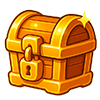
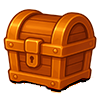
宝箱及背包迭代

diff --git a/js/page_game.js b/js/page_game.js
@@ -20,6 +20,8 @@ let __blockSize = 0;
 let __gridStartX = 0;
 let __gridStartY = 0;
 let popupGoldDisplayed = 0; // 用于胜利弹窗中金币滚动显示
+let chestGoldEarned        = 0; // 本关累计：宝箱金币
+let popupChestGoldDisplayed = 0; // 弹窗里滚动用的数字
 let displayedGold = 0; // 当前动画显示的金币
 let popupGoldStartTime = 0; // ⏱ 胜利弹窗金币滚动起始时间
 let playerActionCounter = 0;
@@ -579,21 +581,20 @@ if (dialog) {
       ctx.drawImage(globalThis.victoryHeroImage, heroImgX, heroImgY, heroImgW, heroImgH);
     }
   
-    /* 4. 金币奖励 */
-    const goldY = heroImgY + heroImgH + 24;
-    if (popupGoldDisplayed < earnedGold) {
-        const diff = earnedGold - popupGoldDisplayed;
-        popupGoldDisplayed += Math.ceil(diff * 0.1); // ✨ 更慢滚动（从 0.2 降为 0.1）
-      } else {
-        popupGoldDisplayed = earnedGold;
-      }
-      
-      const popupGoldText = `获得金币：+${popupGoldDisplayed}`;
-      ctx.fillStyle = '#FFD700';
-      ctx.font = 'bold 20px sans-serif';
-      ctx.textAlign = 'center';
-      ctx.textBaseline = 'alphabetic';
-      ctx.fillText(popupGoldText, W / 2, goldY);
+/* 4. 宝箱金币奖励（只统计宝箱） */
+const goldY = heroImgY + heroImgH + 24;
+if (popupChestGoldDisplayed < chestGoldEarned) {
+  const diff = chestGoldEarned - popupChestGoldDisplayed;
+  popupChestGoldDisplayed += Math.ceil(diff * 0.1);   // 滚动动画
+} else {
+  popupChestGoldDisplayed = chestGoldEarned;
+}
+const popupGoldText = `宝箱金币：+${popupChestGoldDisplayed}`;
+ctx.fillStyle = '#FFD700';
+ctx.font = 'bold 20px sans-serif';
+ctx.textAlign = 'center';
+ctx.textBaseline = 'alphabetic';
+ctx.fillText(popupGoldText, W / 2, goldY);
       // ✅ 显示经验奖励
 const expY = goldY + 30;
 
@@ -630,9 +631,7 @@ if (chestIdxArr.length) {
 
   const boxX = (W - boxW) / 2;
   const boxY = afterRewardY + 12;  // 留一点缓冲
-  ctx.strokeStyle = '#00FF00';
-  ctx.lineWidth   = 2;
-  drawRoundedRect(ctx, boxX, boxY, boxW, boxH, 8, false, true);
+
 /* ---------- 画宝箱（按 S1→S3 排序） ---------- */
 chestIdxArr.forEach((idx, i) => {
     // ① 计算摆放坐标
@@ -1913,6 +1912,11 @@ function openVictoryChest(idx) {
   const chestType = globalThis.chestDropsThisRound[idx]; // 0/1/2
   const loot      = rollLoot(chestType);                 // {icon,name,qty}
   globalThis.victoryChestLoot[idx] = loot;
+  if (loot.name === '金币' || loot.icon === '💰') {
+    chestGoldEarned += loot.qty;  // ① 统计到关卡累计
+    addCoins(loot.qty);           // ② HUD 数字同步增加
+    goldPopTime = Date.now();     // ③ 触发跳字动画（可选）
+  }
 }
   
 
@@ -2630,6 +2634,8 @@ function resetSessionState () {
     globalThis.victoryChestRects  = [];
     globalThis.victoryChestOpened = [];
     globalThis.victoryChestLoot   = [];
+    chestGoldEarned        = 0;
+popupChestGoldDisplayed = 0;
   }
   
 

diff --git a/js/data/monster_data.js b/js/data/monster_data.js
@@ -128,7 +128,7 @@ const envyMonsters = [
       id: lv,
       level: lv,
       name: envyMonsters[i],
-      maxHp: 2200 + i * 150,
+      maxHp: 4200 + i * 150,
       sprite: `${envySprites[i]}.png`,
       damage: [35 + i * 10, 50 + i * 10],
       cooldown: 3,
@@ -168,7 +168,7 @@ const greedMonsters = [
       id: lv,
       level: lv,
       name: greedMonsters[i],
-      maxHp: 3000 + i * 200,
+      maxHp: 5000 + i * 200,
       sprite: `${greedSprites[i]}.png`,
       damage: 220 + i * 10,
       cooldown: 3,
@@ -236,7 +236,7 @@ monsters.push(createMonster({
   id: 40,
   level: 40,
   name: '狂怒化身',
-  maxHp: 820000,
+  maxHp: 420000,
   sprite: 'kuangnuhuashen.png',
   damage: [389, 469],   // ❶ 变成数组即可
   cooldown: 4,
@@ -281,7 +281,7 @@ monsters.push(createMonster({
   id: 50,
   level: 50,
   name: '千年沉眠',
-  maxHp: 222000,
+  maxHp: 852000,
   sprite: 'qiannianchenmian.png',
   damage: [389, 529],   // ❶ 变成数组即可
   cooldown: 5,
@@ -326,7 +326,7 @@ monsters.push(createMonster({
   id: 60,
   level: 60,
   name: '光辉圣裁',
-  maxHp: 524000,
+  maxHp: 1024000,
   sprite: 'guanghuishengcai.png',
   damage: [589, 729],   // ❶ 变成数组即可
   cooldown: 5,
@@ -371,7 +371,7 @@ monsters.push(createMonster({
   id: 70,
   level: 70,
   name: '红莲女皇',
-  maxHp: 10226000,
+  maxHp: 29226000,
   sprite: 'hongliannvhuang.png',
   damage: [989, 1129],   // ❶ 变成数组即可
   cooldown: 5,

diff --git a/js/data/loot_tables.js b/js/data/loot_tables.js
@@ -44,7 +44,7 @@ function settle(entry) {
 /* ---------- 掉落表 ---------- */
 export const CHEST_LOOT = {
   basic: [
-    { id:'coin',         weight:60, qty:[20,60] },
+    { id:'coin',         weight:60, qty:[20,30] },
     { id:'potion_small', weight:30 },
     { id:'hero_shard',   weight:10 }
   ],
@@ -55,7 +55,7 @@ export const CHEST_LOOT = {
     { id:'hero_shard',   weight:10 }
   ],
   gold: [
-    { id:'coin',          weight:30, qty:[120,240] },
+    { id:'coin',          weight:30, qty:[320,840] },
     { id:'potion_big',    weight:25 },
     { id:'scroll_meteor', weight:20 },
     { id:'hero_shard',    weight:15 },

diff --git a/js/data/prop_data.js b/js/data/prop_data.js
@@ -13,7 +13,7 @@ const PropData = {
       /* === Currency ====================================================== */
       { id: 'coin',
         name: '金币',                 category: 'currency',
-        iconChar: '🅳',               // “D 方块”字符
+        iconChar: '💰',               // ← 改这里
         desc: '通用货币，用于升级与购买' },
   
       /* === Consumables (掉落药水) ======================================= */
